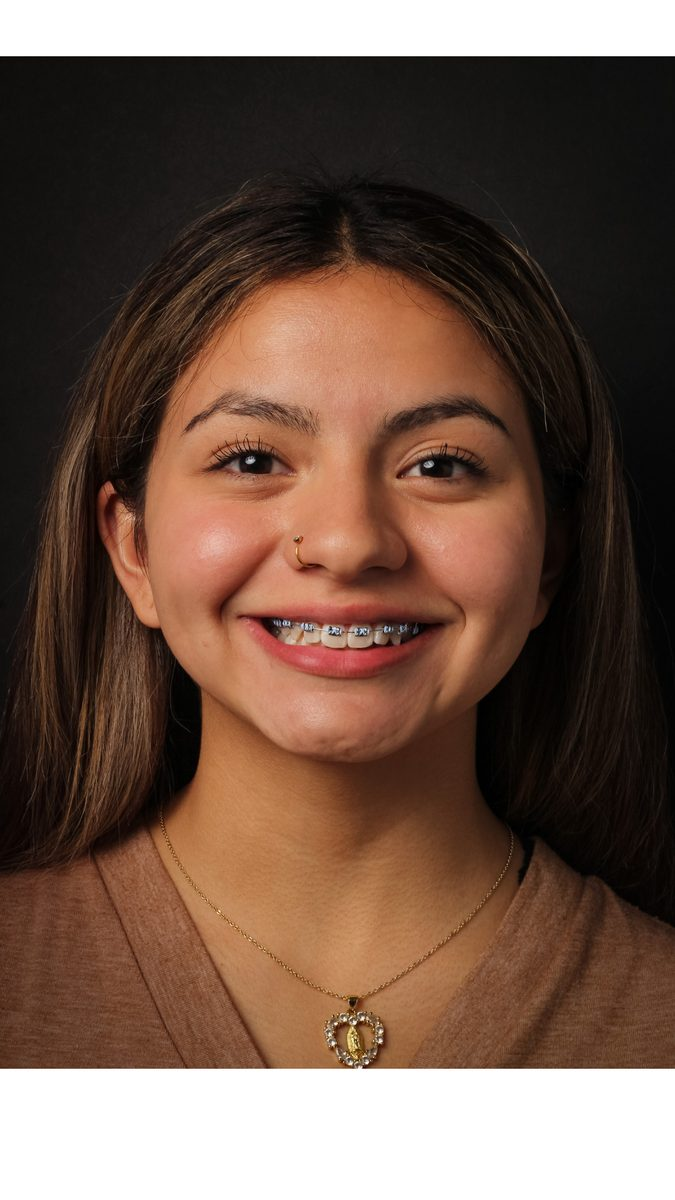
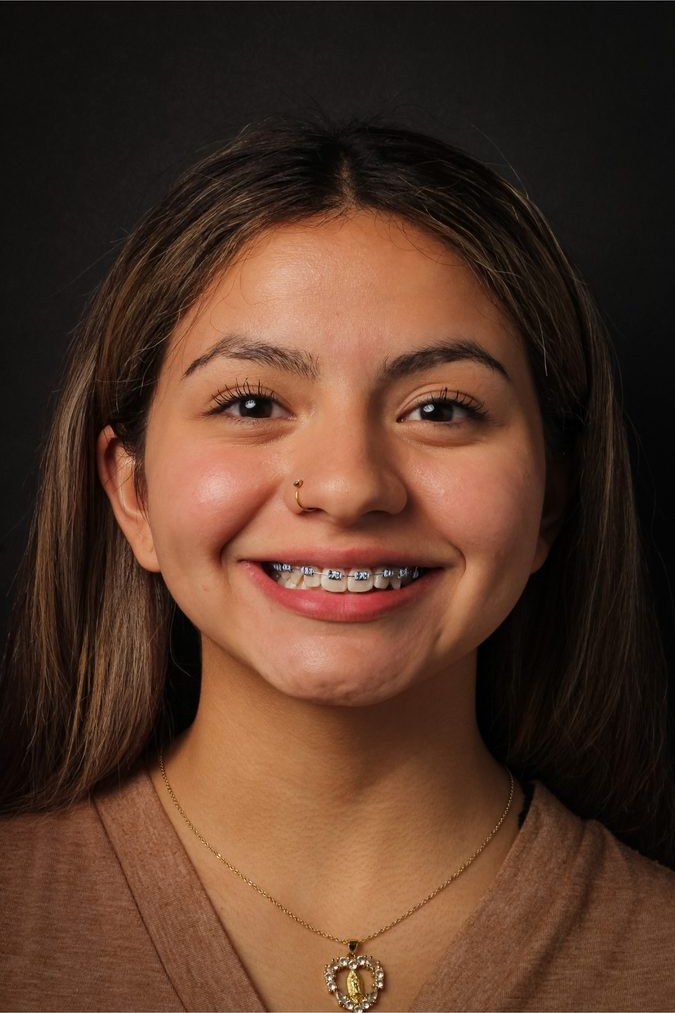
Anchor hero crops to the top so heads stop being cut; trim letterboxed sources
The hero box is 1.10:1 and the photos are portrait (0.56-0.80), so object-fit:cover
always trims vertically. Centred, it trims from the TOP - which is why Dr. Curtis and
the adult-orthodontics patient had their heads cut. It was not one bad image: an audit
of every hero found 19 in the same position, worst on the doctor headshots, which
make_headshots.py crops tight enough to leave zero headroom.

Fixed as a class rather than with 19 inline overrides: .phero img is now anchored to
the top, so the crop only ever loses the bottom of the frame, which is what you want
on a photo of a person. Landscape sources have no vertical slack, so it is a no-op
there, and the financing page's own object-position still wins.

That change then exposed a second problem: seven patient photos ship with white
letterbox bars baked in (up to 211px), invisible while the crop was centred but a
blank band once anchored to the top - caught on kids-teens. Trimmed all seven.
The before-after sources keep their bars because make_gallery.py trims them itself,
and the permanent-retainer render keeps its white background because that is the
composition and it scales by height anyway.

retainer-replacement-el-paso also picks up a hero image, matching retainers and
permanent-retainer.

diff --git a/services.html b/services.html
@@ -195,13 +195,13 @@ body.mm-lock{overflow:hidden}
   <div class="center"><span class="eyebrow">Treatments</span><h2 class="sec">Pick your path</h2><p class="lead">Not sure which one is right for you? That's what the free consultation is for.</p></div>
   <div class="grid3">
     <a class="card" href="/braces"><img src="/images/svc-braces-teens.jpg?v=bffcd779" alt="Teen smiling with braces" width="800" height="534"><div class="b"><h3>Braces</h3><p>The classic. Reliable, most affordable, and great for every age and every case.</p><span class="link">Learn more →</span></div></a>
-    <a class="card" href="/clear-braces"><img src="/images/patients/braces-on-young-woman-nose-ring.jpg?v=dc08fd57" alt="Young adult with clear braces" width="675" height="1200"><div class="b"><h3>Clear Braces</h3><p>Same results as metal, a lot less noticeable. Popular with teens and adults.</p><span class="link">Learn more →</span></div></a>
+    <a class="card" href="/clear-braces"><img src="/images/patients/braces-on-young-woman-nose-ring.jpg?v=0f9d38c4" alt="Young adult with clear braces" width="675" height="1013"><div class="b"><h3>Clear Braces</h3><p>Same results as metal, a lot less noticeable. Popular with teens and adults.</p><span class="link">Learn more →</span></div></a>
     <a class="card" href="/invisalign"><img src="/images/svc-invisalign-adults.jpg?v=79cd24c5" alt="Adult holding an Invisalign aligner" width="800" height="533"><div class="b"><h3>Invisalign</h3><p>Clear, removable aligners. Nearly invisible, easy to live with.</p><span class="link">Learn more →</span></div></a>
     <a class="card" href="/kids-teens"><img src="/images/svc-braces-kids.jpg?v=d9b1f656" alt="Child smiling with braces" width="800" height="533"><div class="b"><h3>Kids &amp; Teens</h3><p>Early checks around age 7, Phase 1 treatment, and braces or Invisalign for teens.</p><span class="link">Learn more →</span></div></a>
     <a class="card" href="/adult-orthodontics"><img src="/images/svc-braces-adults.jpg?v=9055dd80" alt="Adult smiling with braces" width="800" height="533"><div class="b"><h3>Adults</h3><p>It's never too late. Braces and Invisalign that fit a grown-up schedule and budget.</p><span class="link">Learn more →</span></div></a>
     <a class="card" href="/retainers"><img src="/images/svc-invisalign-teens.jpg?v=257d9f7c" alt="Patient holding a clear retainer" width="800" height="533"><div class="b"><h3>Retainers</h3><p>Keep the smile you worked for. Replacements too, even if you weren't our patient.</p><span class="link">Learn more →</span></div></a>
     <a class="card" href="/emergency-care"><img src="/images/office-treatment-01.jpg?v=33d2f7d4" alt="Orthodontic treatment room" width="1080" height="778"><div class="b"><h3>Emergency Care</h3><p>Poking wire, broken bracket, lost retainer. Call us. We'll get you in fast.</p><span class="link">Learn more →</span></div></a>
-    <a class="card" href="/airway-orthodontics"><img src="/images/patients/braces-on-preteen-boy-pointing-at-smile.jpg?v=bb7eb5e2" alt="Preteen boy pointing at his braces" width="960" height="1200"><div class="b"><h3>Airway-Friendly Ortho</h3><p>Treatment planned with breathing and sleep in mind, including guided growth for kids.</p><span class="link">Learn more →</span></div></a>
+    <a class="card" href="/airway-orthodontics"><img src="/images/patients/braces-on-preteen-boy-pointing-at-smile.jpg?v=7e1991b0" alt="Preteen boy pointing at his braces" width="960" height="1178"><div class="b"><h3>Airway-Friendly Ortho</h3><p>Treatment planned with breathing and sleep in mind, including guided growth for kids.</p><span class="link">Learn more →</span></div></a>
     <a class="card" href="/braces-cost-el-paso"><img src="/images/step-2-plan.jpg?v=4e29762f" alt="Team member reviewing a treatment plan" width="800" height="533"><div class="b"><h3>What does it cost?</h3><p>Straight talk on braces pricing in El Paso, and how $99 down really works.</p><span class="link">Learn more →</span></div></a>
   </div>
   <div class="center" style="margin-top:72px"><span class="eyebrow">Conditions we treat</span><h2 class="sec">Describe the problem, we'll name the fix</h2></div>

diff --git a/smile-gallery.html b/smile-gallery.html
@@ -207,7 +207,7 @@ body.mm-lock{overflow:hidden}
     <div><img src="/images/patients/debond-teen-boy-letterboard-braces-removed-pointing.jpg?v=3d7c78c8" alt="Teen pointing at braces removed sign" loading="lazy" width="1080" height="1080"></div>
     <div><img src="/images/patients/debond-young-woman-letterboard-friend-pointing.jpg?v=01af8c35" alt="Friends celebrating braces removed" loading="lazy" width="960" height="1200"></div>
     <div><img src="/images/patient-12-braces-removed-today-sign.jpg?v=2c978b68" alt="Braces removed today sign" loading="lazy" width="1080" height="1350"></div>
-    <div><img src="/images/patients/result-young-woman-varsity-sweatshirt-pointing-at-smile.jpg?v=162220ce" alt="Young woman pointing at her new smile" loading="lazy" width="960" height="1200"></div>
+    <div><img src="/images/patients/result-young-woman-varsity-sweatshirt-pointing-at-smile.jpg?v=db4675d4" alt="Young woman pointing at her new smile" loading="lazy" width="960" height="1178"></div>
     <div><img src="/images/patients/result-adult-man-mustache-thumbs-up.jpg?v=e6a96c5d" alt="Adult patient giving a thumbs up" loading="lazy" width="1080" height="1080"></div>
     <div><img src="/images/patient-07-carlos-thumbs-up.jpg?v=b3192c50" alt="Happy patient giving a thumbs up" loading="lazy" width="1000" height="1250"></div>
     <div><img src="/images/patient-04-woman-laughing-peace.jpg?v=dd9193c2" alt="Patient laughing with a peace sign" loading="lazy" width="1000" height="1250"></div>
@@ -217,11 +217,11 @@ body.mm-lock{overflow:hidden}
 <section class="tight"><div class="wrap">
   <div class="center"><span class="eyebrow">Braces on</span><h2 class="sec">Mid-journey, still smiling</h2></div>
   <div class="gal">
-    <div><img src="/images/patients/braces-on-teen-girl-pink-tipped-hair-peace-sign.jpg?v=cf453392" alt="Teen with braces and a peace sign" loading="lazy" width="675" height="1200"></div>
-    <div><img src="/images/patients/braces-on-teen-boy-backwards-cap.jpg?v=1a2ea027" alt="Teen boy with braces" loading="lazy" width="675" height="1200"></div>
-    <div><img src="/images/patients/braces-on-teen-girl-long-dark-hair.jpg?v=4a05aded" alt="Teen girl with braces" loading="lazy" width="675" height="1200"></div>
-    <div><img src="/images/patients/braces-on-preteen-boy-pointing-at-smile.jpg?v=bb7eb5e2" alt="Preteen boy pointing at his braces" loading="lazy" width="960" height="1200"></div>
-    <div><img src="/images/patients/braces-on-young-woman-nose-ring.jpg?v=dc08fd57" alt="Young adult with braces" loading="lazy" width="675" height="1200"></div>
+    <div><img src="/images/patients/braces-on-teen-girl-pink-tipped-hair-peace-sign.jpg?v=cc3cac63" alt="Teen with braces and a peace sign" loading="lazy" width="675" height="874"></div>
+    <div><img src="/images/patients/braces-on-teen-boy-backwards-cap.jpg?v=5b8144d2" alt="Teen boy with braces" loading="lazy" width="675" height="1014"></div>
+    <div><img src="/images/patients/braces-on-teen-girl-long-dark-hair.jpg?v=218fa010" alt="Teen girl with braces" loading="lazy" width="675" height="874"></div>
+    <div><img src="/images/patients/braces-on-preteen-boy-pointing-at-smile.jpg?v=7e1991b0" alt="Preteen boy pointing at his braces" loading="lazy" width="960" height="1178"></div>
+    <div><img src="/images/patients/braces-on-young-woman-nose-ring.jpg?v=0f9d38c4" alt="Young adult with braces" loading="lazy" width="675" height="1013"></div>
     <div><img src="/images/patients/braces-on-teen-boy-curly-hair-bw-branded.jpg?v=85263bda" alt="Teen with braces, black and white" loading="lazy" width="927" height="1200"></div>
     <div><img src="/images/patients/military-army-soldier-glasses-braces-on.jpg?v=6ed5f104" alt="Soldier with braces smiling" loading="lazy" width="1080" height="1080"></div>
     <div><img src="/images/patients/military-army-soldier-saluting.jpg?v=90373a7f" alt="Soldier saluting and smiling" loading="lazy" width="960" height="1200"></div>

diff --git a/horizon-city.html b/horizon-city.html
@@ -233,12 +233,12 @@ body.mm-lock{overflow:hidden}
 <section class="tight"><div class="wrap">
   <div class="center"><span class="eyebrow">Real patients</span><h2 class="sec">Smiles from this office</h2></div>
   <div class="gal g3">
-    <div><img src="/images/patients/braces-on-teen-girl-long-dark-hair.jpg?v=4a05aded" alt="Smile 4 Less patient" loading="lazy" width="675" height="1200"></div>
+    <div><img src="/images/patients/braces-on-teen-girl-long-dark-hair.jpg?v=218fa010" alt="Smile 4 Less patient" loading="lazy" width="675" height="874"></div>
     <div><img src="/images/patients/braces-on-teen-boy-curly-hair-bw-branded.jpg?v=85263bda" alt="Smile 4 Less patient" loading="lazy" width="927" height="1200"></div>
     <div><img src="/images/patients/debond-young-woman-letterboard-friend-pointing.jpg?v=01af8c35" alt="Smile 4 Less patient" loading="lazy" width="960" height="1200"></div>
     <div><img src="/images/patients/lifestyle-young-woman-bangs-nose-ring-hand-on-chin.jpg?v=5412caf5" alt="Smile 4 Less patient" loading="lazy" width="927" height="1200"></div>
-    <div><img src="/images/patients/result-young-woman-varsity-sweatshirt-pointing-at-smile.jpg?v=162220ce" alt="Smile 4 Less patient" loading="lazy" width="960" height="1200"></div>
-    <div><img src="/images/patients/braces-on-young-woman-nose-ring.jpg?v=dc08fd57" alt="Smile 4 Less patient" loading="lazy" width="675" height="1200"></div>
+    <div><img src="/images/patients/result-young-woman-varsity-sweatshirt-pointing-at-smile.jpg?v=db4675d4" alt="Smile 4 Less patient" loading="lazy" width="960" height="1178"></div>
+    <div><img src="/images/patients/braces-on-young-woman-nose-ring.jpg?v=0f9d38c4" alt="Smile 4 Less patient" loading="lazy" width="675" height="1013"></div>
   </div>
 </div></section>
 

diff --git a/west-el-paso.html b/west-el-paso.html
@@ -232,10 +232,10 @@ body.mm-lock{overflow:hidden}
 <section class="tight"><div class="wrap">
   <div class="center"><span class="eyebrow">Real patients</span><h2 class="sec">Smiles from this office</h2></div>
   <div class="gal g3">
-    <div><img src="/images/patients/braces-on-teen-boy-backwards-cap.jpg?v=1a2ea027" alt="Smile 4 Less patient" loading="lazy" width="675" height="1200"></div>
+    <div><img src="/images/patients/braces-on-teen-boy-backwards-cap.jpg?v=5b8144d2" alt="Smile 4 Less patient" loading="lazy" width="675" height="1014"></div>
     <div><img src="/images/patients/lifestyle-young-woman-peace-sign-raglan-tee.jpg?v=0b8d7fb2" alt="Smile 4 Less patient" loading="lazy" width="960" height="1200"></div>
     <div><img src="/images/patients/debond-teen-boy-letterboard-braces-removed-pointing.jpg?v=3d7c78c8" alt="Smile 4 Less patient" loading="lazy" width="1080" height="1080"></div>
-    <div><img src="/images/patients/braces-on-teen-girl-pink-tipped-hair-peace-sign.jpg?v=cf453392" alt="Smile 4 Less patient" loading="lazy" width="675" height="1200"></div>
+    <div><img src="/images/patients/braces-on-teen-girl-pink-tipped-hair-peace-sign.jpg?v=cc3cac63" alt="Smile 4 Less patient" loading="lazy" width="675" height="874"></div>
     <div><img src="/images/patients/result-adult-man-mustache-thumbs-up.jpg?v=e6a96c5d" alt="Smile 4 Less patient" loading="lazy" width="1080" height="1080"></div>
     <div><img src="/images/patients/lifestyle-young-man-curly-hair-beard-laughing.jpg?v=a652ef98" alt="Smile 4 Less patient" loading="lazy" width="927" height="1200"></div>
   </div>

diff --git a/east-el-paso.html b/east-el-paso.html
@@ -232,10 +232,10 @@ body.mm-lock{overflow:hidden}
 <section class="tight"><div class="wrap">
   <div class="center"><span class="eyebrow">Real patients</span><h2 class="sec">Smiles from this office</h2></div>
   <div class="gal g3">
-    <div><img src="/images/patients/braces-on-teen-girl-long-dark-hair-pointing-at-smile.jpg?v=7ae6a6c0" alt="Smile 4 Less patient" loading="lazy" width="675" height="1200"></div>
+    <div><img src="/images/patients/braces-on-teen-girl-long-dark-hair-pointing-at-smile.jpg?v=266b4c9d" alt="Smile 4 Less patient" loading="lazy" width="675" height="874"></div>
     <div><img src="/images/patients/military-army-soldier-saluting.jpg?v=90373a7f" alt="Smile 4 Less patient" loading="lazy" width="960" height="1200"></div>
     <div><img src="/images/patients/debond-young-woman-letterboard-braces-removed.jpg?v=3e63c064" alt="Smile 4 Less patient" loading="lazy" width="927" height="1200"></div>
-    <div><img src="/images/patients/braces-on-preteen-boy-pointing-at-smile.jpg?v=bb7eb5e2" alt="Smile 4 Less patient" loading="lazy" width="960" height="1200"></div>
+    <div><img src="/images/patients/braces-on-preteen-boy-pointing-at-smile.jpg?v=7e1991b0" alt="Smile 4 Less patient" loading="lazy" width="960" height="1178"></div>
     <div><img src="/images/patients/result-adult-man-mustache-thumbs-up.jpg?v=e6a96c5d" alt="Smile 4 Less patient" loading="lazy" width="1080" height="1080"></div>
     <div><img src="/images/patients/military-army-soldier-glasses-braces-on.jpg?v=6ed5f104" alt="Smile 4 Less patient" loading="lazy" width="1080" height="1080"></div>
   </div>

diff --git a/retainer-replacement-el-paso.html b/retainer-replacement-el-paso.html
@@ -174,12 +174,15 @@ body.mm-lock{overflow:hidden}
 </script>
 <!-- HEADER:END -->
 <main id="main">
-<section class="phero simple"><div class="wrap">
+<section class="phero"><div class="wrap grid">
+  <div class="txt">
   <div class="crumbs"><a href="/">Home</a><span>›</span><a href="/retainers">Retainers</a><span>›</span>Retainer replacement</div>
   <span class="eyebrow">Retainer replacement in El Paso</span>
   <h1>Lost your retainer? <span class="u">We've got you.</span></h1>
   <p class="lead">Dogs, napkins, cafeteria trays, PCS moves. Retainers disappear. Call any Smile 4 Less office, we'll take a quick scan, and you'll have a new one in a few days. You do not have to have been our patient.</p>
   <div class="btns"><a class="btn teal" href="tel:9153043090">Call East (915) 304-3090</a><a class="btn lineT" href="tel:9152197698">West (915) 219-7698</a><a class="btn lineT" href="tel:9153073382">Horizon (915) 307-3382</a></div>
+  </div>
+  <img src="/images/svc-invisalign-kids.jpg?v=df704503" alt="Patient holding a clear retainer" width="800" height="533">
 </div></section>
 
 <section><div class="wrap twocol">

diff --git a/affordable-braces-el-paso.html b/affordable-braces-el-paso.html
@@ -182,7 +182,7 @@ body.mm-lock{overflow:hidden}
     <p class="lead">You might remember us as "$99 Braces." Same offices, same doctors, same deal: braces for $99 down and as low as $99 a month, interest-free. Now with three El Paso locations and a name that fits everything we do.</p>
     <div class="btns"><a class="btn teal" href="/free-consultation">Schedule a Free Consultation</a><a class="btn lineT" href="/braces-cost-el-paso">See how pricing works</a></div>
   </div>
-  <img src="/images/patients/braces-on-teen-boy-backwards-cap.jpg?v=1a2ea027" alt="Teen smiling with affordable braces from Smile 4 Less" width="675" height="1200">
+  <img src="/images/patients/braces-on-teen-boy-backwards-cap.jpg?v=5b8144d2" alt="Teen smiling with affordable braces from Smile 4 Less" width="675" height="1014">
 </div></section>
 <div class="mstrip"><div class="wrap row">
   <div class="it"><b>As Low as $99/mo</b><span>Interest-free in-house plans</span></div>

diff --git a/brackets-el-paso.html b/brackets-el-paso.html
@@ -182,7 +182,7 @@ body.mm-lock{overflow:hidden}
     <p class="lead">Brackets e Invisalign para niños, adolescentes y adultos, aquí mismo en El Paso. $99 de enganche, pagos desde $99 al mes sin intereses, y la primera visita es gratis. Sin cruzar el puente.</p>
     <div class="btns"><a class="btn teal" href="/free-consultation">Agenda tu consulta gratis</a><a class="btn lineT" href="tel:9153043090">Llama al (915) 304-3090</a></div>
   </div>
-  <img src="/images/patients/braces-on-teen-girl-long-dark-hair-pointing-at-smile.jpg?v=7ae6a6c0" alt="Adolescente sonriendo con brackets" width="675" height="1200">
+  <img src="/images/patients/braces-on-teen-girl-long-dark-hair-pointing-at-smile.jpg?v=266b4c9d" alt="Adolescente sonriendo con brackets" width="675" height="874">
 </div></section>
 <div class="mstrip"><div class="wrap row">
   <div class="it"><b>Desde $99 al mes</b><span>Financiamiento sin intereses</span></div>

diff --git a/kids-teens.html b/kids-teens.html
@@ -182,7 +182,7 @@ body.mm-lock{overflow:hidden}
     <p class="lead">From the first check around age 7 to the day the braces come off. Free first visit, $99 down, as low as $99 a month, and late hours so nobody misses school (or work).</p>
     <div class="btns"><a class="btn teal" href="/free-consultation">Schedule a Free Consultation</a><a class="btn lineT" href="#early">Early treatment</a><a class="btn lineT" href="#teens">Teens</a></div>
   </div>
-  <img src="/images/patients/braces-on-teen-girl-long-dark-hair-pointing-at-smile.jpg?v=7ae6a6c0" alt="Teen pointing at her braces" width="675" height="1200">
+  <img src="/images/patients/braces-on-teen-girl-long-dark-hair-pointing-at-smile.jpg?v=266b4c9d" alt="Teen pointing at her braces" width="675" height="874">
 </div></section>
 <div class="mstrip"><div class="wrap row">
   <div class="it"><b>As Low as $99/mo</b><span>Interest-free in-house plans</span></div>

diff --git a/braces.html b/braces.html
@@ -182,7 +182,7 @@ body.mm-lock{overflow:hidden}
     <p class="lead">The tried-and-true way to straighten teeth, for kids, teens, and adults. Starting at $99 down and as low as $99 a month, with your first visit free.</p>
     <div class="btns"><a class="btn teal" href="/free-consultation">Schedule a Free Consultation</a><a class="btn lineT" href="/braces-cost-el-paso">How much do braces cost?</a></div>
   </div>
-  <img src="/images/patients/braces-on-teen-girl-long-dark-hair-pointing-at-smile.jpg?v=7ae6a6c0" alt="Teen girl pointing at her new braces" width="675" height="1200">
+  <img src="/images/patients/braces-on-teen-girl-long-dark-hair-pointing-at-smile.jpg?v=266b4c9d" alt="Teen girl pointing at her new braces" width="675" height="874">
 </div></section>
 <div class="mstrip"><div class="wrap row">
   <div class="it"><b>As Low as $99/mo</b><span>Interest-free in-house plans</span></div>

diff --git a/colored-braces.html b/colored-braces.html
@@ -198,7 +198,7 @@ body.mm-lock{overflow:hidden}
     <p class="lead">Metal braces come with tiny elastic bands around each bracket, and those come in every color. Pick one, pick two, do your school colors, go full rainbow. And you get to change them at every visit.</p>
     <div class="btns"><a class="btn teal" href="/free-consultation">Schedule a Free Consultation</a><a class="btn lineT" href="#picker">Try the color picker</a></div>
   </div>
-  <img src="/images/patients/braces-on-teen-girl-pink-tipped-hair-peace-sign.jpg?v=cf453392" alt="Teen with colored braces and a peace sign" width="675" height="1200">
+  <img src="/images/patients/braces-on-teen-girl-pink-tipped-hair-peace-sign.jpg?v=cc3cac63" alt="Teen with colored braces and a peace sign" width="675" height="874">
 </div></section>
 
 <section><div class="wrap twocol">

diff --git a/assets/site.css b/assets/site.css
@@ -42,7 +42,7 @@ h2.sec{font-size:44px;text-transform:uppercase;margin-bottom:12px}
 .phero h1 .u{color:var(--teal)}.phero.dark h1 .u{color:var(--aqua)}
 .phero .lead{font-size:19px;max-width:560px}
 .phero .btns{margin-top:28px}
-.phero img{border-radius:24px;width:100%;height:440px;object-fit:cover;box-shadow:0 24px 50px rgba(4,106,99,.18)}
+.phero img{border-radius:24px;width:100%;height:440px;object-fit:cover;box-shadow:0 24px 50px rgba(4,106,99,.18);object-position:50% 0%}
 .phero.simple{padding:64px 0 48px}.phero.simple h1{font-size:50px}
 .crumbs{font-size:13px;color:var(--slate);margin-bottom:18px}.crumbs a{color:var(--deep);font-weight:600}.crumbs span{margin:0 8px;opacity:.5}
 .phero.dark .crumbs{color:#9fc2bd}.phero.dark .crumbs a{color:#dff4f1}
